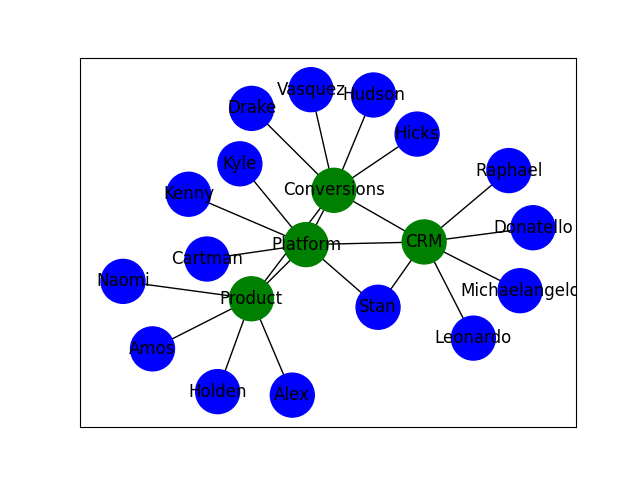
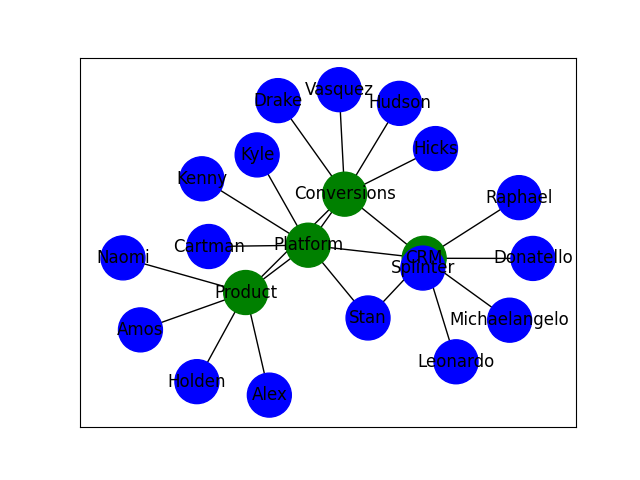
added interactive graph maps

Changed region(s): [[0.1562, 0.125, 0.9062, 0.875]]

diff --git a/docs/eventgraph.html b/docs/eventgraph.html
@@ -1,0 +1,108 @@
+<html>
+<head>
+<link rel="stylesheet" href="https://cdnjs.cloudflare.com/ajax/libs/vis/4.16.1/vis.css" type="text/css" />
+<script type="text/javascript" src="https://cdnjs.cloudflare.com/ajax/libs/vis/4.16.1/vis-network.min.js"> </script>
+<center>
+<h1>Team Config Event Relationships</h1>
+</center>
+
+<!-- <link rel="stylesheet" href="../node_modules/vis/dist/vis.min.css" type="text/css" />
+<script type="text/javascript" src="../node_modules/vis/dist/vis.js"> </script>-->
+
+<style type="text/css">
+
+        #mynetwork {
+            width: 100%;
+            height: 100%;
+            background-color: #ffffff;
+            border: 1px solid lightgray;
+            position: relative;
+            float: left;
+        }
+
+        
+
+        
+
+        
+</style>
+
+</head>
+
+<body>
+<div id = "mynetwork"></div>
+
+
+<script type="text/javascript">
+
+    // initialize global variables.
+    var edges;
+    var nodes;
+    var network; 
+    var container;
+    var options, data;
+
+    
+    // This method is responsible for drawing the graph, returns the drawn network
+    function drawGraph() {
+        var container = document.getElementById('mynetwork');
+        
+        
+
+        // parsing and collecting nodes and edges from the python
+        nodes = new vis.DataSet([{"id": "Platform", "label": "Platform", "shape": "dot", "size": 10, "type": "team"}, {"id": "Event Broker", "label": "Event Broker", "shape": "dot", "size": 10, "type": "product"}, {"id": "Schema Registry", "label": "Schema Registry", "shape": "dot", "size": 10, "type": "product"}, {"id": "CRM", "label": "CRM", "shape": "dot", "size": 10, "type": "team"}, {"id": "Product Renewal Reminders", "label": "Product Renewal Reminders", "shape": "dot", "size": 10, "type": "product"}, {"id": "Abandoned Lead Notifications", "label": "Abandoned Lead Notifications", "shape": "dot", "size": 10, "type": "product"}, {"id": "Product", "label": "Product", "shape": "dot", "size": 10, "type": "team"}, {"id": "Product Configuration Portal", "label": "Product Configuration Portal", "shape": "dot", "size": 10, "type": "product"}, {"id": "Conversions", "label": "Conversions", "shape": "dot", "size": 10, "type": "team"}, {"id": "Product Panel", "label": "Product Panel", "shape": "dot", "size": 10, "type": "product"}, {"id": "Sale Tracking", "label": "Sale Tracking", "shape": "dot", "size": 10, "type": "product"}, {"id": "EventBroker.Created", "label": "EventBroker.Created", "shape": "dot", "size": 10, "type": "event"}, {"id": "SchemaRegistry.Created", "label": "SchemaRegistry.Created", "shape": "dot", "size": 10, "type": "event"}, {"id": "ProductPanel.Updated", "label": "ProductPanel.Updated", "shape": "dot", "size": 10, "type": "event"}, {"id": "ProductPanel.Viewed", "label": "ProductPanel.Viewed", "shape": "dot", "size": 10, "type": "event"}, {"id": "ProductLead.Selected", "label": "ProductLead.Selected", "shape": "dot", "size": 10, "type": "event"}, {"id": "ProductLead.Failed", "label": "ProductLead.Failed", "shape": "dot", "size": 10, "type": "event"}, {"id": "ProductLead.Abandoned", "label": "ProductLead.Abandoned", "shape": "dot", "size": 10, "type": "event"}, {"id": "ProductLead.SuspectedPurchased", "label": "ProductLead.SuspectedPurchased", "shape": "dot", "size": 10, "type": "event"}, {"id": "ProductLead.Purchased", "label": "ProductLead.Purchased", "shape": "dot", "size": 10, "type": "event"}, {"id": "SalesFile.Received", "label": "SalesFile.Received", "shape": "dot", "size": 10, "type": "event"}, {"id": "SaleIndication.Raised", "label": "SaleIndication.Raised", "shape": "dot", "size": 10, "type": "event"}, {"id": "Sale.Suspected", "label": "Sale.Suspected", "shape": "dot", "size": 10, "type": "event"}, {"id": "Sale.Confirmed", "label": "Sale.Confirmed", "shape": "dot", "size": 10, "type": "event"}, {"id": "Contact.LeadReminderCommunicationSent", "label": "Contact.LeadReminderCommunicationSent", "shape": "dot", "size": 10, "type": "event"}, {"id": "Contact.ProductExpired", "label": "Contact.ProductExpired", "shape": "dot", "size": 10, "type": "event"}, {"id": "Contact.AbandonedLead", "label": "Contact.AbandonedLead", "shape": "dot", "size": 10, "type": "event"}, {"id": "Product.Updated", "label": "Product.Updated", "shape": "dot", "size": 10, "type": "event"}, {"id": "User.Activated", "label": "User.Activated", "shape": "dot", "size": 10, "type": "event"}, {"id": "User.Deactivated", "label": "User.Deactivated", "shape": "dot", "size": 10, "type": "event"}, {"id": "Contact.Activated", "label": "Contact.Activated", "shape": "dot", "size": 10, "type": "event"}, {"id": "Contact.Deactivated", "label": "Contact.Deactivated", "shape": "dot", "size": 10, "type": "event"}, {"id": "Contact.Purchased", "label": "Contact.Purchased", "shape": "dot", "size": 10, "type": "event"}, {"id": "Contact.RenewalReminderCommunicationSent", "label": "Contact.RenewalReminderCommunicationSent", "shape": "dot", "size": 10, "type": "event"}]);
+        edges = new vis.DataSet([{"from": "Platform", "to": "Event Broker", "weight": 1}, {"from": "Platform", "to": "Schema Registry", "weight": 1}, {"from": "CRM", "to": "Product Renewal Reminders", "weight": 1}, {"from": "CRM", "to": "Abandoned Lead Notifications", "weight": 1}, {"from": "Product", "to": "Product Configuration Portal", "weight": 1}, {"from": "Conversions", "to": "Product Panel", "weight": 1}, {"from": "Conversions", "to": "Sale Tracking", "weight": 1}, {"from": "Event Broker", "to": "EventBroker.Created", "weight": 1}, {"from": "Schema Registry", "to": "SchemaRegistry.Created", "weight": 1}, {"from": "Product Panel", "to": "ProductPanel.Updated", "weight": 1}, {"from": "Product Panel", "to": "ProductPanel.Viewed", "weight": 1}, {"from": "Product Panel", "to": "ProductLead.Selected", "weight": 1}, {"from": "Product Panel", "to": "ProductLead.Failed", "weight": 1}, {"from": "Product Panel", "to": "ProductLead.Abandoned", "weight": 1}, {"from": "Product Panel", "to": "ProductLead.SuspectedPurchased", "weight": 1}, {"from": "Product Panel", "to": "ProductLead.Purchased", "weight": 1}, {"from": "Sale Tracking", "to": "SalesFile.Received", "weight": 1}, {"from": "Sale Tracking", "to": "SaleIndication.Raised", "weight": 1}, {"from": "Sale Tracking", "to": "Sale.Suspected", "weight": 1}, {"from": "Sale Tracking", "to": "Sale.Confirmed", "weight": 1}, {"from": "Product Renewal Reminders", "to": "Contact.LeadReminderCommunicationSent", "weight": 1}, {"from": "Product Renewal Reminders", "to": "Contact.ProductExpired", "weight": 1}, {"from": "Abandoned Lead Notifications", "to": "Contact.AbandonedLead", "weight": 1}, {"from": "Abandoned Lead Notifications", "to": "Contact.LeadReminderCommunicationSent", "weight": 1}, {"from": "Product Configuration Portal", "to": "Product.Updated", "weight": 1}]);
+
+        // adding nodes and edges to the graph
+        data = {nodes: nodes, edges: edges};
+
+        var options = {
+    "configure": {
+        "enabled": false
+    },
+    "edges": {
+        "color": {
+            "inherit": true
+        },
+        "smooth": {
+            "enabled": false,
+            "type": "continuous"
+        }
+    },
+    "interaction": {
+        "dragNodes": true,
+        "hideEdgesOnDrag": false,
+        "hideNodesOnDrag": false
+    },
+    "physics": {
+        "enabled": true,
+        "stabilization": {
+            "enabled": true,
+            "fit": true,
+            "iterations": 1000,
+            "onlyDynamicEdges": false,
+            "updateInterval": 50
+        }
+    }
+};
+        
+        
+
+        
+
+        network = new vis.Network(container, data, options);
+	 
+        
+
+
+        
+
+        return network;
+
+    }
+
+    drawGraph();
+
+</script>
+</body>
+</html>

diff --git a/docs/teamgraph.html b/docs/teamgraph.html
@@ -1,0 +1,108 @@
+<html>
+<head>
+<link rel="stylesheet" href="https://cdnjs.cloudflare.com/ajax/libs/vis/4.16.1/vis.css" type="text/css" />
+<script type="text/javascript" src="https://cdnjs.cloudflare.com/ajax/libs/vis/4.16.1/vis-network.min.js"> </script>
+<center>
+<h1>Team Config Team Relationships</h1>
+</center>
+
+<!-- <link rel="stylesheet" href="../node_modules/vis/dist/vis.min.css" type="text/css" />
+<script type="text/javascript" src="../node_modules/vis/dist/vis.js"> </script>-->
+
+<style type="text/css">
+
+        #mynetwork {
+            width: 100%;
+            height: 100%;
+            background-color: #ffffff;
+            border: 1px solid lightgray;
+            position: relative;
+            float: left;
+        }
+
+        
+
+        
+
+        
+</style>
+
+</head>
+
+<body>
+<div id = "mynetwork"></div>
+
+
+<script type="text/javascript">
+
+    // initialize global variables.
+    var edges;
+    var nodes;
+    var network; 
+    var container;
+    var options, data;
+
+    
+    // This method is responsible for drawing the graph, returns the drawn network
+    function drawGraph() {
+        var container = document.getElementById('mynetwork');
+        
+        
+
+        // parsing and collecting nodes and edges from the python
+        nodes = new vis.DataSet([{"id": "Platform", "label": "Platform", "shape": "dot", "size": 10, "type": "team"}, {"id": "Conversions", "label": "Conversions", "shape": "dot", "size": 10, "type": "team"}, {"id": "CRM", "label": "CRM", "shape": "dot", "size": 10, "type": "team"}, {"id": "Product", "label": "Product", "shape": "dot", "size": 10, "type": "team"}, {"id": "Cartman", "label": "Cartman", "shape": "dot", "size": 10, "type": "team_member"}, {"id": "Kyle", "label": "Kyle", "shape": "dot", "size": 10, "type": "team_member"}, {"id": "Stan", "label": "Stan", "shape": "dot", "size": 10, "type": "team_member"}, {"id": "Kenny", "label": "Kenny", "shape": "dot", "size": 10, "type": "team_member"}, {"id": "Leonardo", "label": "Leonardo", "shape": "dot", "size": 10, "type": "team_member"}, {"id": "Raphael", "label": "Raphael", "shape": "dot", "size": 10, "type": "team_member"}, {"id": "Donatello", "label": "Donatello", "shape": "dot", "size": 10, "type": "team_member"}, {"id": "Michaelangelo", "label": "Michaelangelo", "shape": "dot", "size": 10, "type": "team_member"}, {"id": "Holden", "label": "Holden", "shape": "dot", "size": 10, "type": "team_member"}, {"id": "Naomi", "label": "Naomi", "shape": "dot", "size": 10, "type": "team_member"}, {"id": "Alex", "label": "Alex", "shape": "dot", "size": 10, "type": "team_member"}, {"id": "Amos", "label": "Amos", "shape": "dot", "size": 10, "type": "team_member"}, {"id": "Hicks", "label": "Hicks", "shape": "dot", "size": 10, "type": "team_member"}, {"id": "Hudson", "label": "Hudson", "shape": "dot", "size": 10, "type": "team_member"}, {"id": "Vasquez", "label": "Vasquez", "shape": "dot", "size": 10, "type": "team_member"}, {"id": "Drake", "label": "Drake", "shape": "dot", "size": 10, "type": "team_member"}, {"id": "Splinter", "label": "Splinter", "shape": "dot", "size": 10, "type": "team_member"}]);
+        edges = new vis.DataSet([{"from": "Platform", "to": "Conversions", "weight": 1}, {"from": "Platform", "to": "CRM", "weight": 1}, {"from": "Platform", "to": "Product", "weight": 1}, {"from": "Platform", "to": "Cartman", "weight": 1}, {"from": "Platform", "to": "Kyle", "weight": 1}, {"from": "Platform", "to": "Stan", "weight": 1}, {"from": "Platform", "to": "Kenny", "weight": 1}, {"from": "CRM", "to": "Conversions", "weight": 1}, {"from": "CRM", "to": "Leonardo", "weight": 1}, {"from": "CRM", "to": "Raphael", "weight": 1}, {"from": "CRM", "to": "Donatello", "weight": 1}, {"from": "CRM", "to": "Michaelangelo", "weight": 1}, {"from": "CRM", "to": "Stan", "weight": 1}, {"from": "Product", "to": "Conversions", "weight": 1}, {"from": "Product", "to": "Holden", "weight": 1}, {"from": "Product", "to": "Naomi", "weight": 1}, {"from": "Product", "to": "Alex", "weight": 1}, {"from": "Product", "to": "Amos", "weight": 1}, {"from": "Conversions", "to": "Hicks", "weight": 1}, {"from": "Conversions", "to": "Hudson", "weight": 1}, {"from": "Conversions", "to": "Vasquez", "weight": 1}, {"from": "Conversions", "to": "Drake", "weight": 1}]);
+
+        // adding nodes and edges to the graph
+        data = {nodes: nodes, edges: edges};
+
+        var options = {
+    "configure": {
+        "enabled": false
+    },
+    "edges": {
+        "color": {
+            "inherit": true
+        },
+        "smooth": {
+            "enabled": false,
+            "type": "continuous"
+        }
+    },
+    "interaction": {
+        "dragNodes": true,
+        "hideEdgesOnDrag": false,
+        "hideNodesOnDrag": false
+    },
+    "physics": {
+        "enabled": true,
+        "stabilization": {
+            "enabled": true,
+            "fit": true,
+            "iterations": 1000,
+            "onlyDynamicEdges": false,
+            "updateInterval": 50
+        }
+    }
+};
+        
+        
+
+        
+
+        network = new vis.Network(container, data, options);
+	 
+        
+
+
+        
+
+        return network;
+
+    }
+
+    drawGraph();
+
+</script>
+</body>
+</html>

diff --git a/docs/index.html b/docs/index.html
@@ -16,4 +16,8 @@
  <img src="teamgraph.png" alt="Team Graph">
  <h1>Team Products and Event Responsibilities Graph</h1>
  <img src="eventgraph.png" alt="Event Graph">
+ <h1>Interactive Team Members and Relationships Graph</h1>
+ <embed type="text/html" src="teamgraph.html" width="800" height="800">
+ <h1>Interactive Team Products and Event Responsibilities Graph</h1>
+ <embed type="text/html" src="teamevents.html" width="800" height="800">
 </body>

diff --git a/app/createmap.py b/app/createmap.py
@@ -5,6 +5,8 @@ import os
 from os import listdir
 from os.path import isfile, join
 import sys
+from pyvis import network as net
+from IPython.core.display import display, HTML
 
 SCRIPT_DIR = os.path.dirname(os.path.abspath(__file__))
 sys.path.append(os.path.dirname(SCRIPT_DIR))
@@ -66,9 +68,23 @@ def create_map():
   color_map_events = ['orange' if node in events else 'purple' if node in products else 'green' for node in G_events]
   nx.draw_networkx(G_people,pos=nx.kamada_kawai_layout(G_people),node_color = color_map_people, with_labels=True, node_size=1000)
   plt.savefig("docs/teamgraph.png") 
-  plt.show() 
+  ##plt.show() 
+
+  gp = net.Network(height='100%', width='100%',heading='Team Config Team Relationships')
+  gp.from_nx(G_people)
+  gp.save_graph("docs/teamgraph.html")
+  ##gp.show('docs/teamgraph.html')
+  #display(HTML('docs/teamgraph.html'))
+
   nx.draw_networkx(G_events,pos=nx.kamada_kawai_layout(G_events),node_color = color_map_events, with_labels=True, node_size=1000) 
   plt.savefig("docs/eventgraph.png") 
-  plt.show() 
+  #plt.show() 
+
+  ge = net.Network(height='100%', width='100%',heading='Team Config Event Relationships')
+  ge.from_nx(G_events)
+  ge.save_graph("docs/eventgraph.html")
+  ##ge.show('docs/eventgraph.html')
+  #display(HTML('docs/eventgraph.html'))
+
 create_map()
 

diff --git a/app/generate_docs.py b/app/generate_docs.py
@@ -55,6 +55,10 @@ html_main = """<!DOCTYPE html>
  <img src="teamgraph.png" alt="Team Graph">
  <h1>Team Products and Event Responsibilities Graph</h1>
  <img src="eventgraph.png" alt="Event Graph">
+ <h1>Interactive Team Members and Relationships Graph</h1>
+ <embed type="text/html" src="teamgraph.html" width="800" height="800">
+ <h1>Interactive Team Products and Event Responsibilities Graph</h1>
+ <embed type="text/html" src="teamevents.html" width="800" height="800">
 </body>"""
 
 with open(f'docs/index.html', 'w') as f:

diff --git a/ReadMe.md b/ReadMe.md
@@ -89,6 +89,7 @@ pip install requests
 pip install neworkx
 pip install matplotlib
 pip install scipy
+pip install pyvis
 
 pip list
 ```
